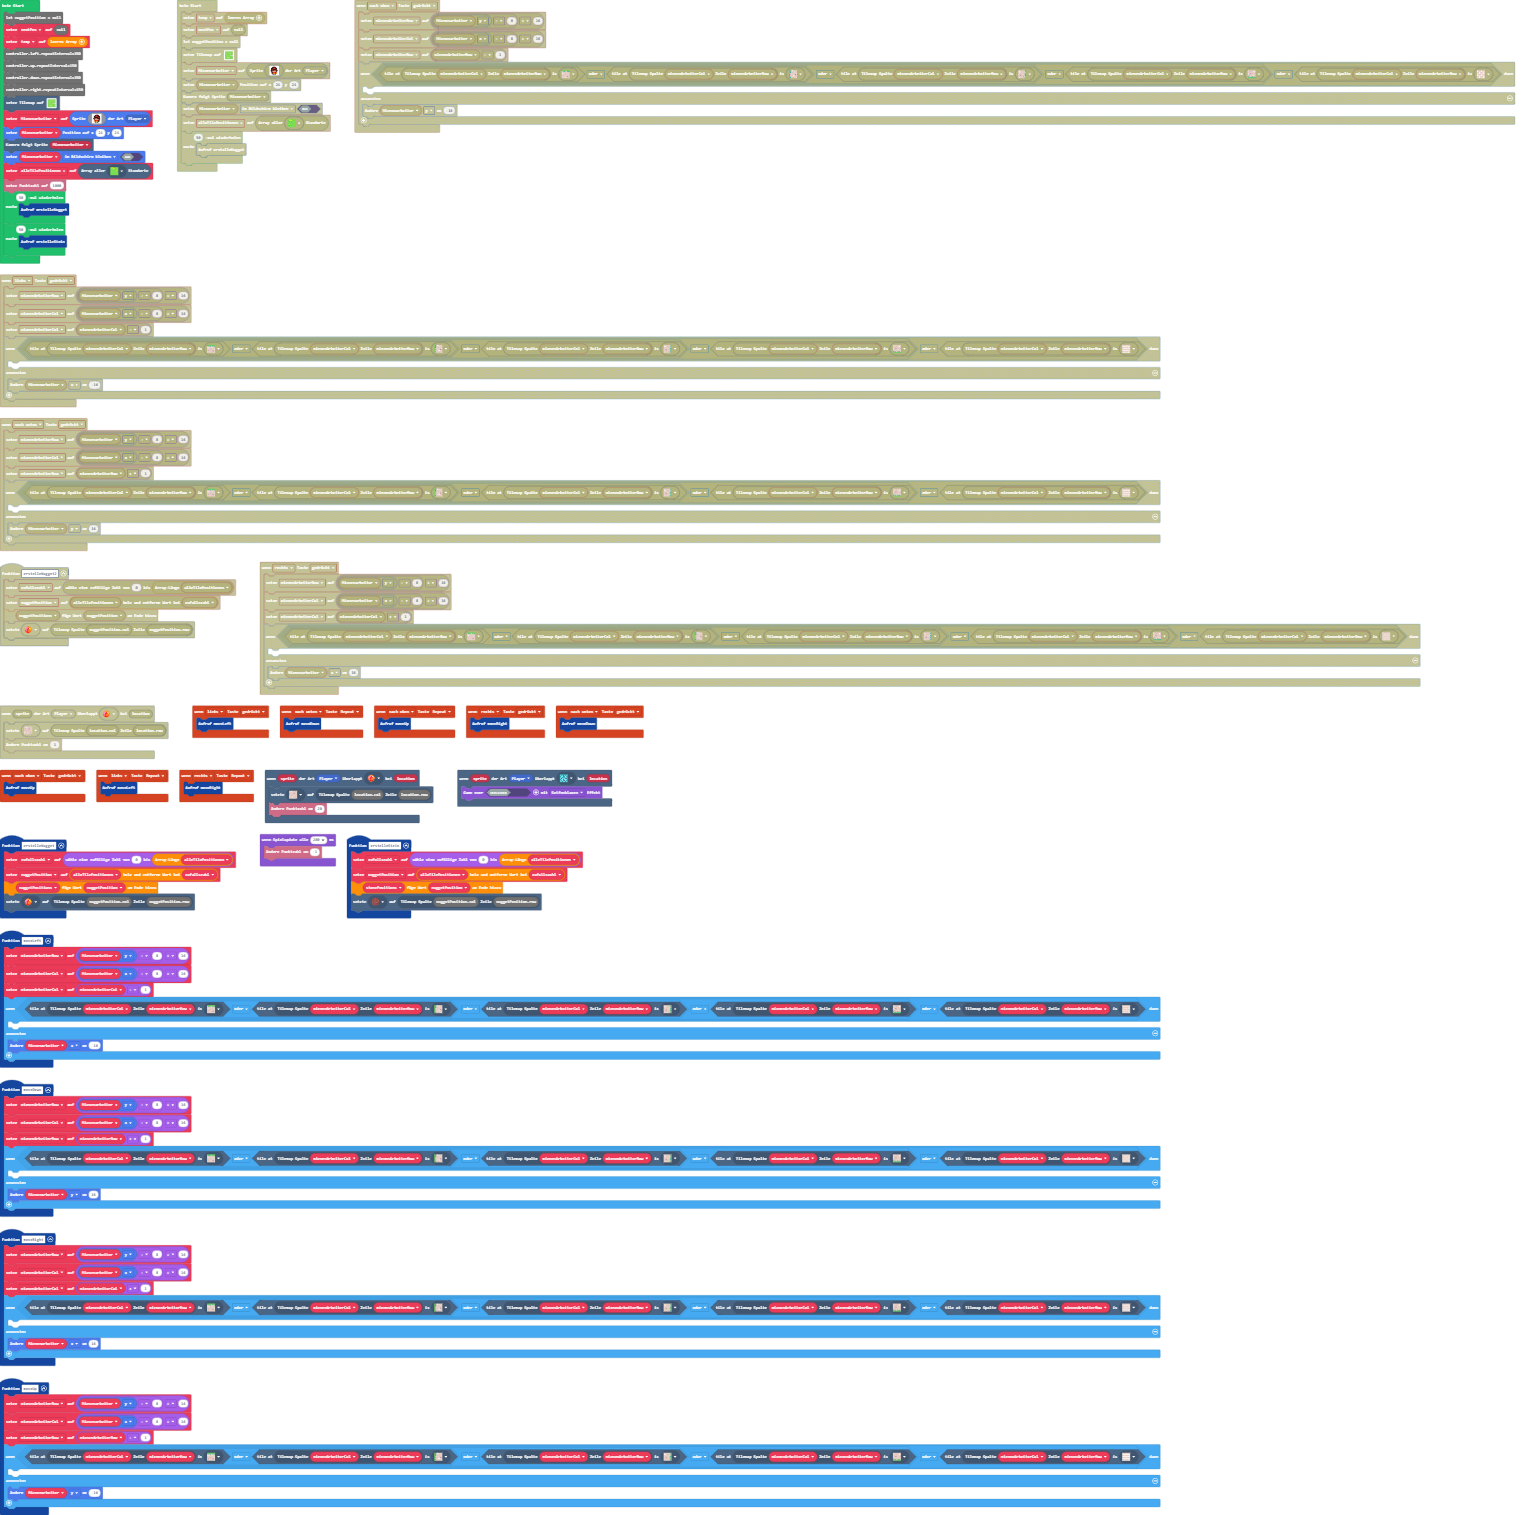
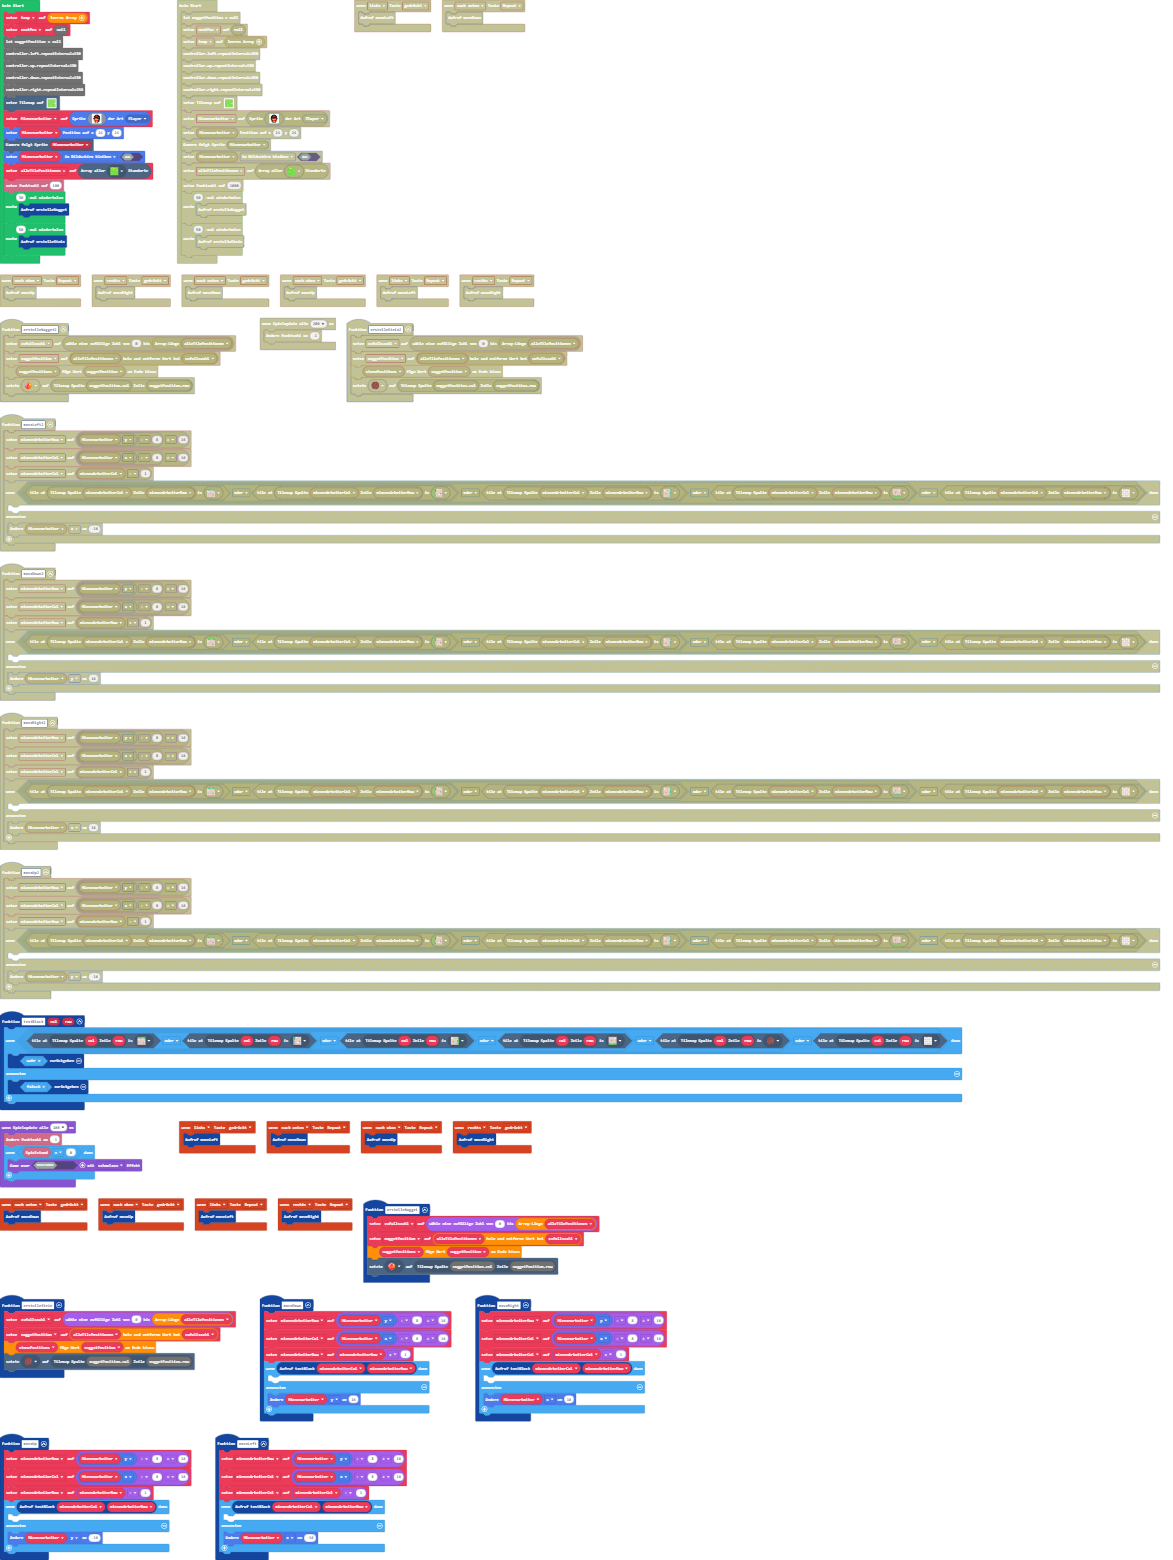
Add timer penalty and life update

diff --git a/main.ts b/main.ts
@@ -1,32 +1,19 @@
 namespace SpriteKind {
     export const Nugget = SpriteKind.create()
 }
-
-function testBlock(col : number, row : number): boolean {
-    if (tiles.tileAtLocationEquals(tiles.getTileLocation(col, row), sprites.castle.tilePath2) || 
-        tiles.tileAtLocationEquals(tiles.getTileLocation(col, row), sprites.castle.tilePath4) || 
-        tiles.tileAtLocationEquals(tiles.getTileLocation(col, row), sprites.castle.tilePath6) || 
-        tiles.tileAtLocationEquals(tiles.getTileLocation(col, row), sprites.castle.tilePath8) ||
-        tiles.tileAtLocationEquals(tiles.getTileLocation(col, row), sprites.castle.tilePath8) || 
-        tiles.tileAtLocationEquals(tiles.getTileLocation(col, row), sprites.builtin.brick)) {
-    	return true
-    } else {
-        return false
-    }
-}
-
-
 function moveRight () {
     mienenArbeiterRow = (Mienenarbeiter.y - 8) / 16
     mienenArbeiterCol = (Mienenarbeiter.x - 8) / 16
     mienenArbeiterCol = mienenArbeiterCol + 1
-    if (testBlock(mienenArbeiterCol,mienenArbeiterRow)) {
+    if (testBlock(mienenArbeiterCol, mienenArbeiterRow)) {
     	
     } else {
         Mienenarbeiter.x += 16
     }
 }
-
+controller.down.onEvent(ControllerButtonEvent.Repeated, function () {
+    moveDown()
+})
 function moveUp () {
     mienenArbeiterRow = (Mienenarbeiter.y - 8) / 16
     mienenArbeiterCol = (Mienenarbeiter.x - 8) / 16
@@ -37,7 +24,18 @@ function moveUp () {
         Mienenarbeiter.y += -16
     }
 }
-
+controller.up.onEvent(ControllerButtonEvent.Pressed, function () {
+    moveUp()
+})
+controller.left.onEvent(ControllerButtonEvent.Pressed, function () {
+    moveLeft()
+})
+controller.up.onEvent(ControllerButtonEvent.Repeated, function () {
+    moveUp()
+})
+controller.down.onEvent(ControllerButtonEvent.Pressed, function () {
+    moveDown()
+})
 function moveDown () {
     mienenArbeiterRow = (Mienenarbeiter.y - 8) / 16
     mienenArbeiterCol = (Mienenarbeiter.x - 8) / 16
@@ -48,34 +46,6 @@ function moveDown () {
         Mienenarbeiter.y += 16
     }
 }
-
-function moveLeft () {
-    mienenArbeiterRow = (Mienenarbeiter.y - 8) / 16
-    mienenArbeiterCol = (Mienenarbeiter.x - 8) / 16
-    mienenArbeiterCol = mienenArbeiterCol - 1
-    if (testBlock(mienenArbeiterCol, mienenArbeiterRow)) {
-    	
-    } else {
-        Mienenarbeiter.x += -16
-    }
-}
-
-
-controller.down.onEvent(ControllerButtonEvent.Repeated, function () {
-    moveDown()
-})
-controller.down.onEvent(ControllerButtonEvent.Pressed, function () {
-    moveDown()
-})
-controller.up.onEvent(ControllerButtonEvent.Pressed, function () {
-    moveUp()
-})
-controller.left.onEvent(ControllerButtonEvent.Pressed, function () {
-    moveLeft()
-})
-controller.up.onEvent(ControllerButtonEvent.Repeated, function () {
-    moveUp()
-})
 controller.right.onEvent(ControllerButtonEvent.Pressed, function () {
     moveRight()
 })
@@ -88,6 +58,13 @@ function erstelleStein () {
     nuggetPosition = alleTilePositionen.removeAt(zufallszahl)
     stonePositions.push(nuggetPosition)
     tiles.setTileAt(tiles.getTileLocation(nuggetPosition.col, nuggetPosition.row), myTiles.tile1)
+}
+function testBlock (col: number, row: number) {
+    if (tiles.tileAtLocationEquals(tiles.getTileLocation(col, row), sprites.castle.tilePath2) || tiles.tileAtLocationEquals(tiles.getTileLocation(col, row), sprites.castle.tilePath4) || tiles.tileAtLocationEquals(tiles.getTileLocation(col, row), sprites.castle.tilePath6) || tiles.tileAtLocationEquals(tiles.getTileLocation(col, row), sprites.castle.tilePath8) || tiles.tileAtLocationEquals(tiles.getTileLocation(col, row), myTiles.tile1) || tiles.tileAtLocationEquals(tiles.getTileLocation(col, row), sprites.builtin.brick)) {
+        return true
+    } else {
+        return false
+    }
 }
 controller.right.onEvent(ControllerButtonEvent.Repeated, function () {
     moveRight()
@@ -106,6 +83,16 @@ scene.onOverlapTile(SpriteKind.Player, sprites.dungeon.collectibleRedCrystal, fu
     tiles.setTileAt(tiles.getTileLocation(location.col, location.row), sprites.castle.tilePath5)
     info.changeScoreBy(20)
 })
+function moveLeft () {
+    mienenArbeiterRow = (Mienenarbeiter.y - 8) / 16
+    mienenArbeiterCol = (Mienenarbeiter.x - 8) / 16
+    mienenArbeiterCol = mienenArbeiterCol - 1
+    if (testBlock(mienenArbeiterCol, mienenArbeiterRow)) {
+    	
+    } else {
+        Mienenarbeiter.x += -16
+    }
+}
 scene.onOverlapTile(SpriteKind.Player, sprites.dungeon.collectibleInsignia, function (sprite, location) {
     game.over(false, effects.bubbles)
 })
@@ -114,9 +101,9 @@ let mienenArbeiterCol = 0
 let mienenArbeiterRow = 0
 let alleTilePositionen: tiles.Location[] = []
 let Mienenarbeiter: Sprite = null
-let nuggetPosition = null
-let nextPos = null
 let temp: number[] = []
+let nextPos = null
+let nuggetPosition = null
 controller.left.repeatInterval=150
 controller.up.repeatInterval=150
 controller.down.repeatInterval=150
@@ -144,13 +131,16 @@ Mienenarbeiter.setPosition(24, 24)
 scene.cameraFollowSprite(Mienenarbeiter)
 Mienenarbeiter.setFlag(SpriteFlag.StayInScreen, false)
 alleTilePositionen = tiles.getTilesByType(sprites.castle.tileGrass1)
-info.setScore(1000)
+info.setScore(100)
 for (let index = 0; index < 30; index++) {
     erstelleNugget()
 }
 for (let index = 0; index < 50; index++) {
     erstelleStein()
 }
-game.onUpdateInterval(200, function () {
+game.onUpdateInterval(100, function () {
     info.changeScoreBy(-1)
+    if (info.score() == 0) {
+        game.over(false, effects.melt)
+    }
 })
